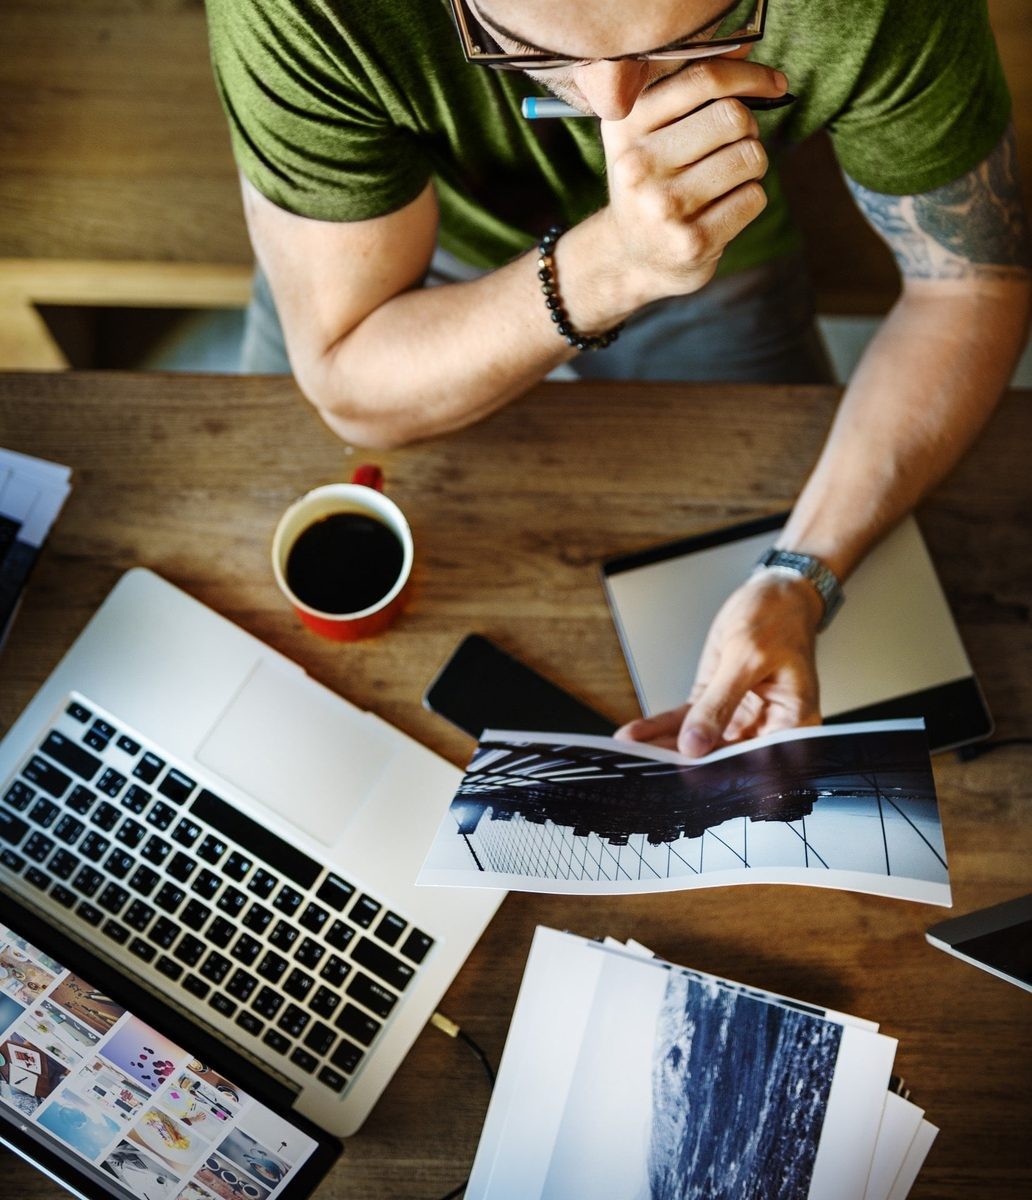
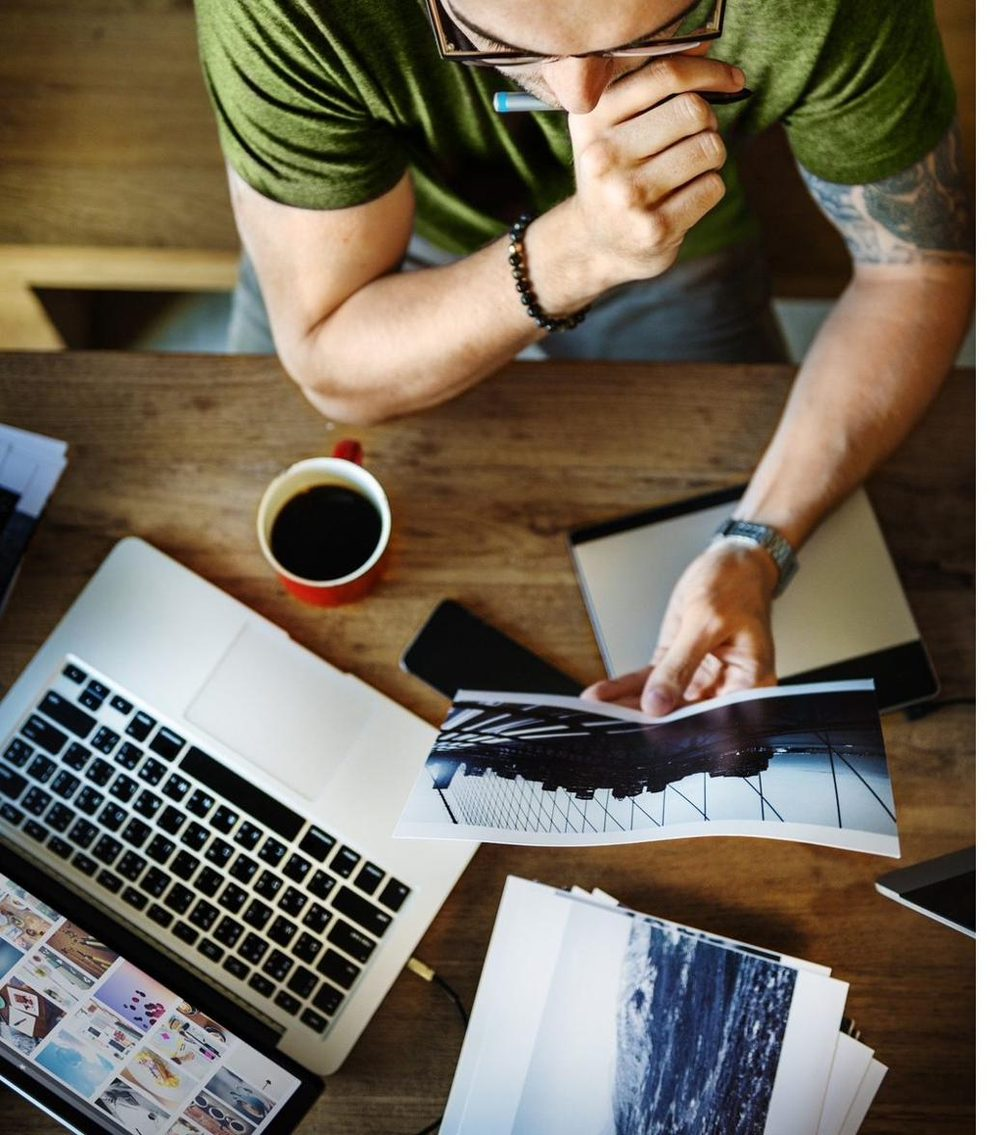
Added images to Strategic

diff --git a/strategic-marketing.html b/strategic-marketing.html
@@ -63,17 +63,21 @@
   ===================== -->
   <section class="section-alt">
     <div class="container">
-      <p class="section-label" style="color:var(--gold-dark);">Branding</p>
-      <h2 class="section-title">Build a Brand People Recognize, Trust &amp; Choose</h2>
-      <p style="max-width:820px;">We translate your value into a clear story and a consistent look and feel — so every touchpoint reinforces credibility and differentiation.</p>
-
-      <h3 style="font-size:20px;font-weight:600;color:var(--black);margin:28px 0 4px;">What we offer</h3>
-      <ul class="feature-list" style="max-width:820px;">
-        <li><span class="feature-check">✓</span><span><strong>Brand strategy</strong> — positioning, audience insights, competitive landscape, messaging pillars</span></li>
-        <li><span class="feature-check">✓</span><span><strong>Visual identity</strong> — logo system guidance, typography, color palette, imagery direction</span></li>
-        <li><span class="feature-check">✓</span><span><strong>Brand guidelines</strong> — practical rules for consistent application across channels</span></li>
-        <li><span class="feature-check">✓</span><span><strong>Brand collateral</strong> — pitch decks, one-pagers, templates, social kits, signage basics</span></li>
-      </ul>
+      <div class="services-split">
+        <div>
+          <p class="section-label" style="color:var(--gold-dark);">Branding</p>
+          <h2 class="section-title">Build a Brand People Recognize, Trust &amp; Choose</h2>
+          <p>We translate your value into a clear story and a consistent look and feel — so every touchpoint reinforces credibility and differentiation.</p>
+          <h3 style="font-size:20px;font-weight:600;color:var(--black);margin:28px 0 4px;">What we offer</h3>
+          <ul class="feature-list">
+            <li><span class="feature-check">✓</span><span><strong>Brand strategy</strong> — positioning, audience insights, competitive landscape, messaging pillars</span></li>
+            <li><span class="feature-check">✓</span><span><strong>Visual identity</strong> — logo system guidance, typography, color palette, imagery direction</span></li>
+            <li><span class="feature-check">✓</span><span><strong>Brand guidelines</strong> — practical rules for consistent application across channels</span></li>
+            <li><span class="feature-check">✓</span><span><strong>Brand collateral</strong> — pitch decks, one-pagers, templates, social kits, signage basics</span></li>
+          </ul>
+        </div>
+        <div class="split-img"><img src="assets/images/website-design.jpg" alt="Brand and visual identity design with colour palette swatches"></div>
+      </div>
 
       <div class="services-card-grid" style="margin-top:44px;">
         <div class="service-card">
@@ -100,18 +104,22 @@
   ===================== -->
   <section>
     <div class="container">
-      <p class="section-label" style="color:var(--gold-dark);">Digital Marketing</p>
-      <h2 class="section-title">Reach the Right Audience With Campaigns Designed to Perform</h2>
-      <p style="max-width:820px;">We combine strategy, creative, and optimization to generate awareness, leads, and sales — with reporting you can act on.</p>
-
-      <h3 style="font-size:20px;font-weight:600;color:var(--black);margin:28px 0 4px;">What we offer</h3>
-      <ul class="feature-list" style="max-width:820px;">
-        <li><span class="feature-check">✓</span><span><strong>Campaign strategy</strong> — objectives, audiences, offers, channel mix, testing plan</span></li>
-        <li><span class="feature-check">✓</span><span><strong>Paid media</strong> — search and social ads, creative variations, landing page recommendations</span></li>
-        <li><span class="feature-check">✓</span><span><strong>Content &amp; social</strong> — content themes, post concepts, creative direction, scheduling support</span></li>
-        <li><span class="feature-check">✓</span><span><strong>Email marketing</strong> — newsletters, lifecycle journeys, nurture sequences, A/B testing</span></li>
-        <li><span class="feature-check">✓</span><span><strong>Analytics &amp; reporting</strong> — dashboards, KPI tracking, insights and next actions</span></li>
-      </ul>
+      <div class="services-split reverse">
+        <div>
+          <p class="section-label" style="color:var(--gold-dark);">Digital Marketing</p>
+          <h2 class="section-title">Reach the Right Audience With Campaigns Designed to Perform</h2>
+          <p>We combine strategy, creative, and optimization to generate awareness, leads, and sales — with reporting you can act on.</p>
+          <h3 style="font-size:20px;font-weight:600;color:var(--black);margin:28px 0 4px;">What we offer</h3>
+          <ul class="feature-list">
+            <li><span class="feature-check">✓</span><span><strong>Campaign strategy</strong> — objectives, audiences, offers, channel mix, testing plan</span></li>
+            <li><span class="feature-check">✓</span><span><strong>Paid media</strong> — search and social ads, creative variations, landing page recommendations</span></li>
+            <li><span class="feature-check">✓</span><span><strong>Content &amp; social</strong> — content themes, post concepts, creative direction, scheduling support</span></li>
+            <li><span class="feature-check">✓</span><span><strong>Email marketing</strong> — newsletters, lifecycle journeys, nurture sequences, A/B testing</span></li>
+            <li><span class="feature-check">✓</span><span><strong>Analytics &amp; reporting</strong> — dashboards, KPI tracking, insights and next actions</span></li>
+          </ul>
+        </div>
+        <div class="split-img"><img src="assets/images/seo-1.jpg" alt="Marketing team reviewing campaign analytics and performance charts"></div>
+      </div>
 
       <div class="why-highlight" style="margin-top:40px;">
         <div class="why-highlight-icon">📊</div>
@@ -184,18 +192,22 @@
   ===================== -->
   <section>
     <div class="container">
-      <p class="section-label" style="color:var(--gold-dark);">Copywriting</p>
-      <h2 class="section-title">Clear Writing Sells</h2>
-      <p style="max-width:820px;">We craft messaging that sounds like your brand and motivates your audience — so your marketing is easier to understand, easier to trust, and more likely to convert.</p>
-
-      <h3 style="font-size:20px;font-weight:600;color:var(--black);margin:28px 0 4px;">What we offer</h3>
-      <ul class="feature-list" style="max-width:820px;">
-        <li><span class="feature-check">✓</span><span><strong>Website &amp; landing pages</strong> — value prop clarity, page structure, conversion-focused copy</span></li>
-        <li><span class="feature-check">✓</span><span><strong>Email sequences</strong> — welcome, nurture, launches, re-engagement, transactional enhancements</span></li>
-        <li><span class="feature-check">✓</span><span><strong>Ad &amp; social copy</strong> — hooks, variations for testing, benefit-driven messaging</span></li>
-        <li><span class="feature-check">✓</span><span><strong>Sales enablement</strong> — one-pagers, case studies, pitch decks, product sheets</span></li>
-        <li><span class="feature-check">✓</span><span><strong>Brand messaging</strong> — taglines, key messages, tone-of-voice guidance</span></li>
-      </ul>
+      <div class="services-split">
+        <div>
+          <p class="section-label" style="color:var(--gold-dark);">Copywriting</p>
+          <h2 class="section-title">Clear Writing Sells</h2>
+          <p>We craft messaging that sounds like your brand and motivates your audience — so your marketing is easier to understand, easier to trust, and more likely to convert.</p>
+          <h3 style="font-size:20px;font-weight:600;color:var(--black);margin:28px 0 4px;">What we offer</h3>
+          <ul class="feature-list">
+            <li><span class="feature-check">✓</span><span><strong>Website &amp; landing pages</strong> — value prop clarity, page structure, conversion-focused copy</span></li>
+            <li><span class="feature-check">✓</span><span><strong>Email sequences</strong> — welcome, nurture, launches, re-engagement, transactional enhancements</span></li>
+            <li><span class="feature-check">✓</span><span><strong>Ad &amp; social copy</strong> — hooks, variations for testing, benefit-driven messaging</span></li>
+            <li><span class="feature-check">✓</span><span><strong>Sales enablement</strong> — one-pagers, case studies, pitch decks, product sheets</span></li>
+            <li><span class="feature-check">✓</span><span><strong>Brand messaging</strong> — taglines, key messages, tone-of-voice guidance</span></li>
+          </ul>
+        </div>
+        <div class="split-img"><img src="assets/images/local-seo-1.jpg" alt="Writer reviewing printed content pages at a laptop"></div>
+      </div>
 
       <div class="why-highlight" style="margin-top:40px;">
         <div class="why-highlight-icon">✅</div>
